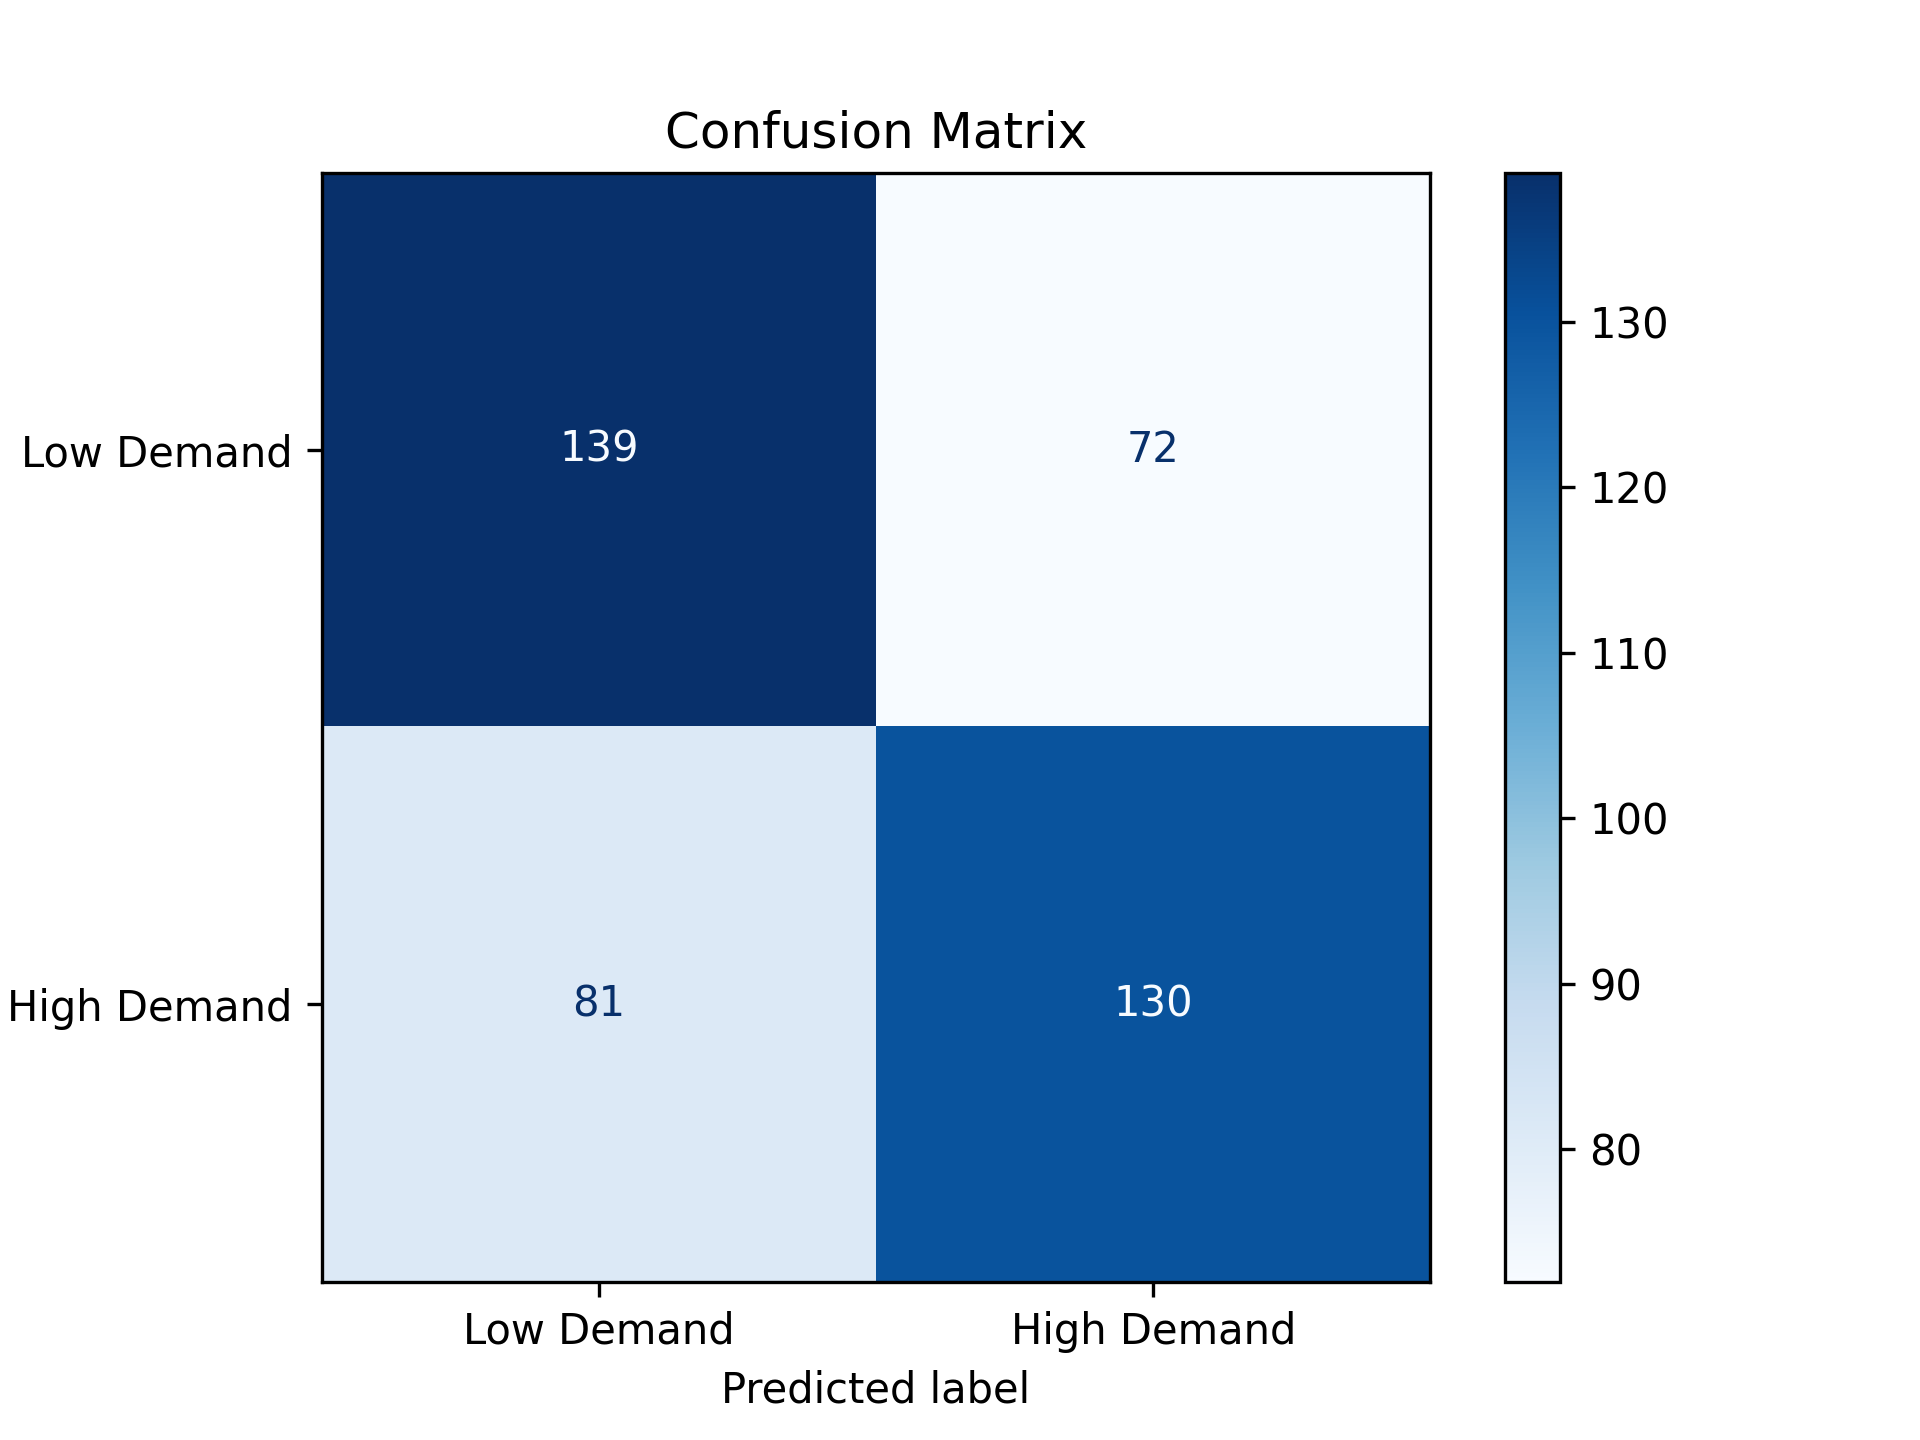
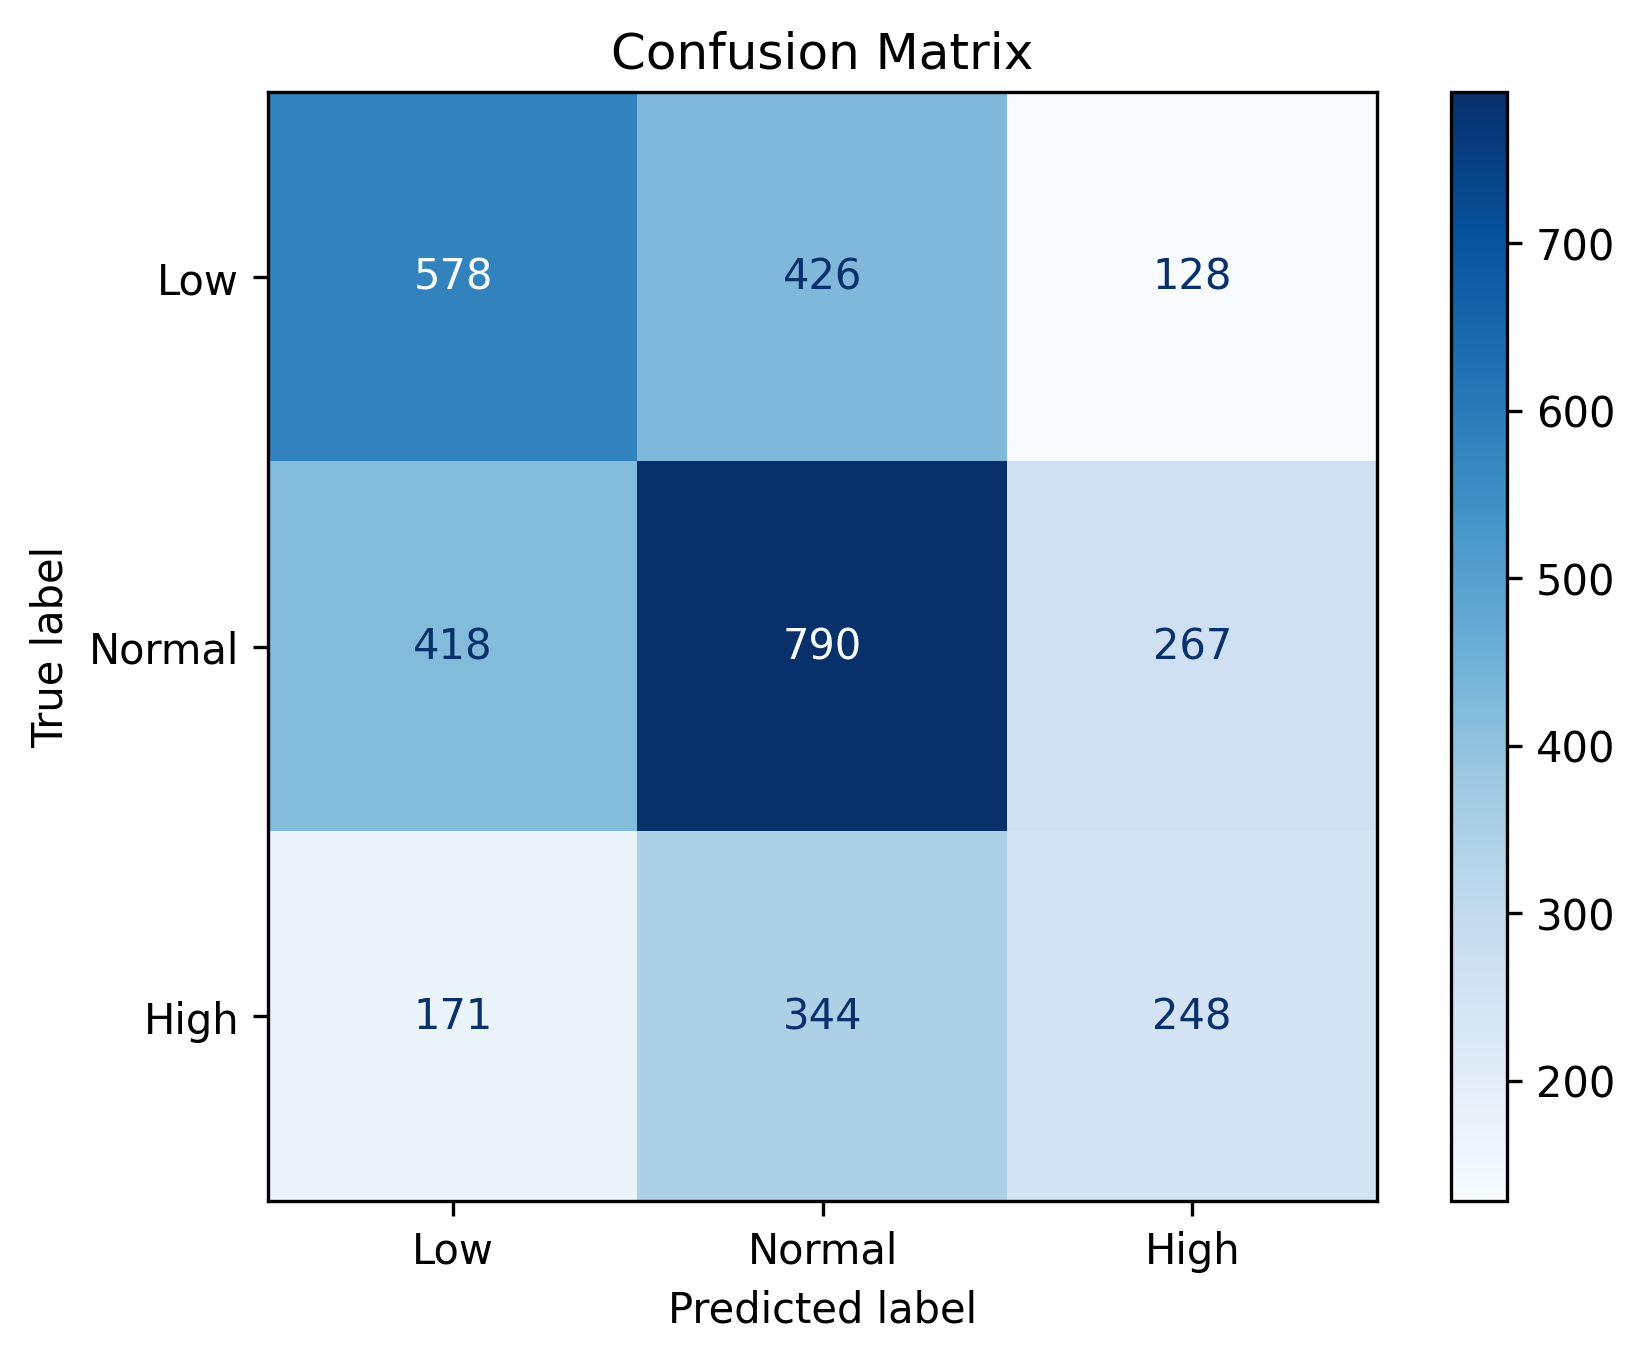
did final model evaluation

diff --git a/notebooks/09_final_model_evaluation.py b/notebooks/09_final_model_evaluation.py
@@ -1,0 +1,148 @@
+import os
+import joblib
+import pandas as pd
+import matplotlib.pyplot as plt
+
+from sklearn.model_selection import train_test_split
+from sklearn.ensemble import RandomForestClassifier
+from sklearn.metrics import (
+    accuracy_score,
+    classification_report,
+    confusion_matrix,
+    ConfusionMatrixDisplay
+)
+
+# =====================================================
+# STEP 09: FINAL MODEL EVALUATION
+# =====================================================
+
+# 1. Loading the dataset from Step 06
+input_path = r"C:\Users\L E N O V O\Desktop\Pharmacy_Inventory_AI\data\processed\pharmacy_training_dataset.csv"
+
+if not os.path.exists(input_path):
+    raise FileNotFoundError(f"Could not find {input_path}!")
+
+df = pd.read_csv(input_path)
+
+# 2. Selecting the features and target variable
+features = [
+    "Medicine_Encoded",
+    "Year",
+    "Month",
+    "Weekday_Encoded"
+]
+
+X = df[features]
+y = df["Demand"]
+
+# 3. Splitting the dataset into training and testing sets
+X_train, X_test, y_train, y_test = train_test_split(
+    X,
+    y,
+    test_size=0.20,
+    random_state=42,
+    stratify=y
+)
+
+print("============================================================")
+print("FINAL MODEL EVALUATION")
+print("============================================================")
+
+# 4. Training the final Random Forest model
+model = RandomForestClassifier(
+    n_estimators=50,
+    random_state=42
+)
+
+model.fit(X_train, y_train)
+
+# 5. Saving the final model
+model_path = r"C:\Users\L E N O V O\Desktop\Pharmacy_Inventory_AI\models\pharmacy_rf_model.pkl"
+joblib.dump(model, model_path)
+
+# 6. Predicting the testing dataset
+y_pred = model.predict(X_test)
+
+# 7. Calculating model accuracy
+accuracy = accuracy_score(y_test, y_pred)
+
+print(f"\nAccuracy : {accuracy:.2%}\n")
+
+# 8. Displaying the classification report
+print("Classification Report")
+print(classification_report(y_test, y_pred))
+
+# 9. Creating the confusion matrix
+cm = confusion_matrix(y_test, y_pred)
+
+print("Confusion Matrix")
+print(cm)
+
+# 10. Displaying the confusion matrix
+disp = ConfusionMatrixDisplay(
+    confusion_matrix=cm,
+    display_labels=["Low", "Normal", "High"]
+)
+
+disp.plot(cmap="Blues")
+plt.title("Confusion Matrix")
+
+# 11. Saving the confusion matrix image
+output_path = r"C:\Users\L E N O V O\Desktop\Pharmacy_Inventory_AI\report\figures\confusion_matrix.png"
+
+plt.savefig(output_path, dpi=300, bbox_inches="tight")
+
+plt.show()
+
+print(f"\nConfusion Matrix image saved to:\n{output_path}")
+
+print("\n============================================================")
+print("STEP 09 COMPLETED SUCCESSFULLY")
+print("============================================================")
+
+# 12. Finding feature importance
+
+importance = model.feature_importances_
+
+importance_df = pd.DataFrame({
+    "Feature": features,
+    "Importance": importance
+})
+
+importance_df = importance_df.sort_values(
+    by="Importance",
+    ascending=False
+)
+
+print("\nFeature Importance")
+print(importance_df)
+
+# 13. Creating the feature importance chart
+
+plt.figure(figsize=(8,5))
+
+plt.bar(
+    importance_df["Feature"],
+    importance_df["Importance"],
+    edgecolor="black"
+)
+
+plt.title("Feature Importance")
+plt.xlabel("Features")
+plt.ylabel("Importance Score")
+
+plt.tight_layout()
+
+# 14. Saving the feature importance image
+
+feature_output_path = r"C:\Users\L E N O V O\Desktop\Pharmacy_Inventory_AI\report\figures\feature_importance.png"
+
+plt.savefig(
+    feature_output_path,
+    dpi=300,
+    bbox_inches="tight"
+)
+
+plt.show()
+
+print(f"\nFeature Importance image saved to:\n{feature_output_path}")